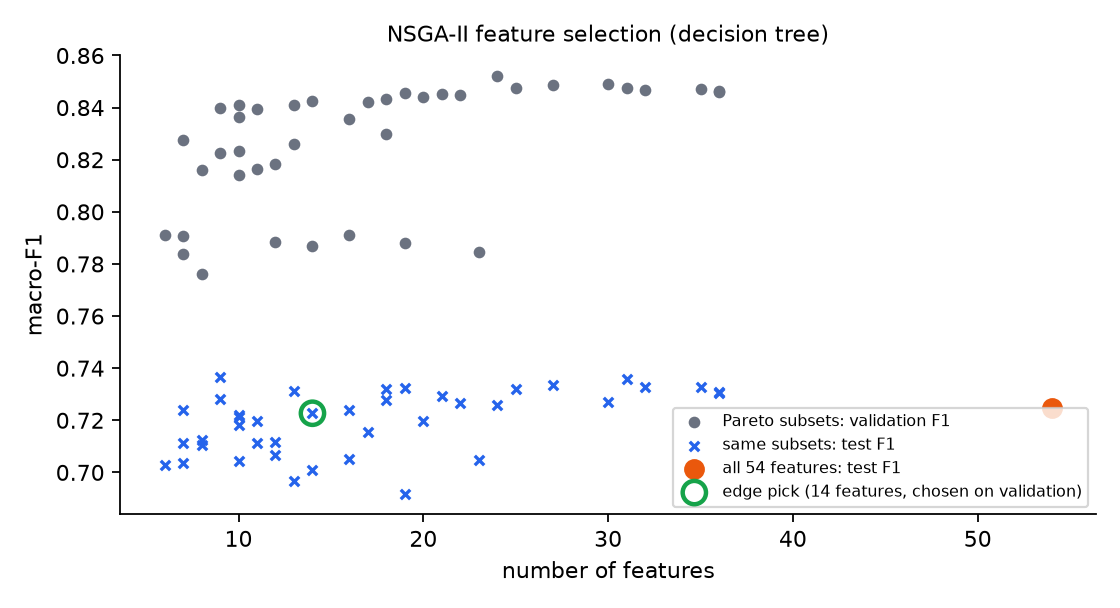
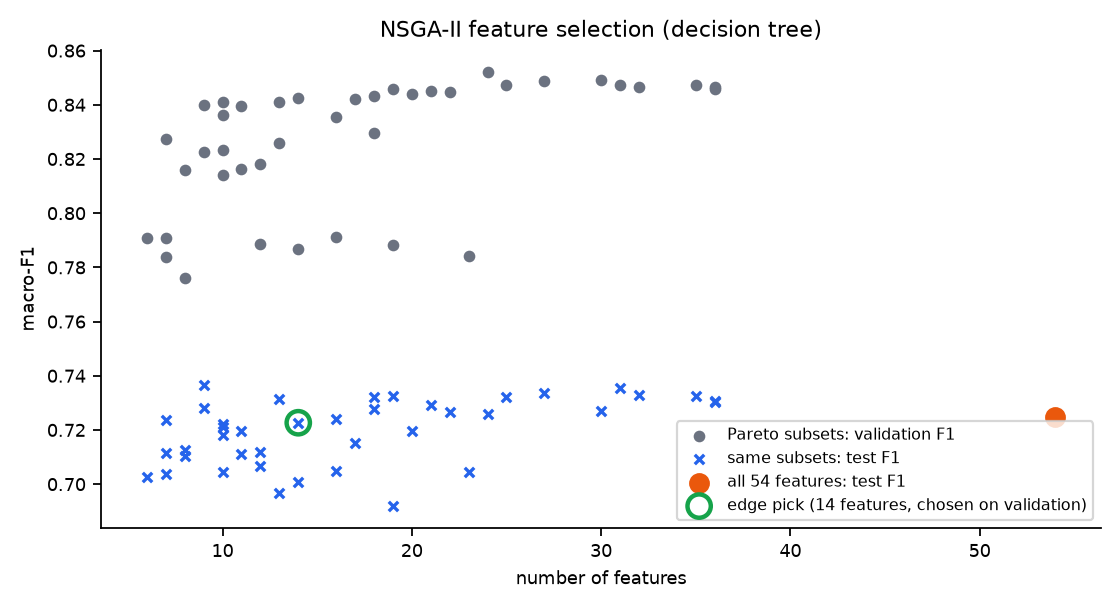
Add per-class host-pair CIs and false-block definition check; regenerate figures for column width

diff --git a/src/analysis/round2_checks.py b/src/analysis/round2_checks.py
@@ -1,0 +1,99 @@
+"""Second-round review checks (no new experiments).
+
+1. Per-class recall with host-pair bootstrap intervals, temporal vs stratified split (edge tree):
+   is the brute-force recall drop robust when whole host pairs are resampled?
+2. Pair-level false blocks for the enforced live runs: a block is false if the blocked pair carries
+   no attack flow in that window (the definition used for the k-curve), next to the trigger-flow
+   definition used by eval_enforce.py.
+
+Usage: python src/analysis/round2_checks.py
+Output: results/round2_checks.md
+"""
+import json
+import pathlib
+import sys
+
+sys.path.insert(0, str(pathlib.Path(__file__).resolve().parents[1]))  # import from src
+
+import numpy as np  # noqa: E402
+import pandas as pd  # noqa: E402
+from sklearn.tree import DecisionTreeClassifier  # noqa: E402
+
+from analysis.cluster_ci import cluster_ids  # noqa: E402
+from config import ATTACKERS_FILE, EDGE_TREE, FOLDER_TO_CLASS, PROCESSED, RESULTS, feature_columns  # noqa: E402
+from eval_live import in_window  # noqa: E402
+from extract_flows import label_flows  # noqa: E402
+from train_baseline import SPLITS  # noqa: E402
+
+B = 1000
+
+
+def recall_ci(y, p, clusters, cls, seed=0):
+    """Recall of one class with a host-pair bootstrap 95% interval; also the number of pairs."""
+    mask = y == cls
+    cl = clusters[mask]
+    hit = (p[mask] == cls).astype(float)
+    ids, inv = np.unique(cl, return_inverse=True)
+    tp = np.bincount(inv, weights=hit)
+    n = np.bincount(inv).astype(float)
+    rng = np.random.default_rng(seed)
+    vals = []
+    for _ in range(B):
+        w = np.bincount(rng.integers(0, len(ids), len(ids)), minlength=len(ids))
+        vals.append((w @ tp) / (w @ n))
+    return hit.mean(), np.percentile(vals, 2.5), np.percentile(vals, 97.5), len(ids)
+
+
+def per_class_section():
+    df = pd.read_parquet(PROCESSED / "flows.parquet")
+    classes = sorted(df.label.unique())
+    rows = []
+    for split, fn in SPLITS.items():
+        train, test = fn(df)
+        feats = feature_columns(train)
+        m = DecisionTreeClassifier(**EDGE_TREE).fit(train[feats].to_numpy(np.float32), train.label)
+        p = m.predict(test[feats].to_numpy(np.float32))
+        y = test.label.to_numpy()
+        cl = cluster_ids(test.source_file.to_numpy(), test.src_ip.to_numpy(), test.dst_ip.to_numpy())
+        for c in classes:
+            r, lo, hi, n = recall_ci(y, p, cl, c)
+            rows.append({"split": split, "class": c, "recall": round(r, 3),
+                         "host-pair 95% CI": f"[{lo:.3f}, {hi:.3f}]", "host pairs": n,
+                         "test flows": int((y == c).sum())})
+    return pd.DataFrame(rows)
+
+
+def false_block_section():
+    attackers = json.loads(ATTACKERS_FILE.read_text())
+    rows = []
+    for tag in ("enforce_k1", "enforce_policy"):
+        run = RESULTS / "live" / tag
+        meta = json.loads((run / "windows.json").read_text())
+        live = pd.read_csv(run / "flows.csv")
+        blocked = trig_false = pair_false = 0
+        for w in meta["windows"]:
+            d = label_flows(in_window(live, w).copy(), FOLDER_TO_CLASS[w["folder"]], attackers.get(w["folder"], {}))
+            d["pair"] = [tuple(sorted(p)) for p in zip(d.src_ip, d.dst_ip)]
+            trig = d[d.blocked_now == 1]
+            att_pairs = set(d[d.label != "Benign"].pair)
+            blocked += len(trig)
+            trig_false += int((trig.label == "Benign").sum())
+            pair_false += sum(1 for p in trig.pair if p not in att_pairs)
+        rows.append({"run": tag, "pairs blocked": blocked,
+                     "false (trigger flow benign)": trig_false,
+                     "false (pair has no attack flow in window)": pair_false})
+    return pd.DataFrame(rows)
+
+
+def main():
+    pc = per_class_section()
+    fb = false_block_section()
+    md = ["# Second-round review checks", "",
+          "## Per-class recall with host-pair bootstrap (edge tree)", "", pc.to_markdown(index=False), "",
+          "## False blocks under two definitions (enforced live runs)", "", fb.to_markdown(index=False)]
+    (RESULTS / "round2_checks.md").write_text("\n".join(md) + "\n")
+    print("\n".join(md))
+
+
+if __name__ == "__main__":
+    main()

diff --git a/src/make_figures.py b/src/make_figures.py
@@ -21,26 +21,35 @@ OUT = ROOT / "docs" / "figures"
 BLUE, ORANGE, GREY, GREEN = "#2563eb", "#ea580c", "#6b7280", "#16a34a"
 
 
+SHORT = {"Benign": "Benign", "BruteForce": "BruteF", "DDoS-SYN": "DDoS", "DoS-HTTP": "DoS-HTTP",
+         "MITM-ARP": "MITM", "Mirai": "Mirai", "Recon": "Recon", "Web": "Web",
+         "Benign_Final": "Benign", "CommandInjection": "CmdInj", "DDoS-SYN_Flood": "DDoS",
+         "DictionaryBruteForce": "BruteF", "DoS-HTTP_Flood": "DoS-HTTP", "MITM-ArpSpoofing": "MITM",
+         "Mirai-udpplain": "Mirai", "Recon-PortScan": "Recon", "SqlInjection": "SQLi", "XSS": "XSS"}
+# Paper figures are placed at \columnwidth (about 3.5 in), so sizes below are true print sizes.
+COL_W = 3.5
+plt.rcParams.update({"font.size": 8, "axes.labelsize": 8, "xtick.labelsize": 8,
+                     "ytick.labelsize": 8, "legend.fontsize": 8})
+
+
 def split_recall():
     t = json.loads((RESULTS / "baseline_temporal" / "metrics.json").read_text())["models"]["decision_tree"]
     s = json.loads((RESULTS / "baseline_stratified" / "metrics.json").read_text())["models"]["decision_tree"]
     classes = list(t["per_class"])
     x = np.arange(len(classes))
-    fig, ax = plt.subplots(figsize=(9, 4.2))
+    fig, ax = plt.subplots(figsize=(COL_W, 2.3))
     ax.bar(x - 0.2, [s["per_class"][c]["recall"] for c in classes], 0.4, color=GREY,
-           label=f"stratified random split (macro-F1 {s['macro_f1']:.3f})")
+           label=f"random (macro-F1 {s['macro_f1']:.3f})")
     ax.bar(x + 0.2, [t["per_class"][c]["recall"] for c in classes], 0.4, color=BLUE,
-           label=f"temporal split (macro-F1 {t['macro_f1']:.3f})")
-    for i, c in enumerate(classes):
-        ax.text(i + 0.2, 1.02, f"n={int(t['per_class'][c]['support']):,}", ha="center", fontsize=7, color=BLUE)
-    ax.set_xticks(x, classes, fontsize=9)
-    ax.set_ylim(0, 1.12)
+           label=f"temporal (macro-F1 {t['macro_f1']:.3f})")
+    ax.set_xticks(x, [SHORT.get(c, c) for c in classes], rotation=35, ha="right", rotation_mode="anchor")
+    ax.set_ylim(0, 1.0)
     ax.set_ylabel("recall")
-    ax.set_title("Decision tree recall per class: a random split hides the brute-force shift", fontsize=10)
-    ax.legend(fontsize=8, loc="upper center", bbox_to_anchor=(0.5, -0.1), ncol=2, frameon=False)
+    ax.legend(loc="lower center", bbox_to_anchor=(0.5, 1.0), ncol=2, frameon=False,
+              handlelength=1.2, columnspacing=1.0, borderaxespad=0.2)
     ax.spines[["top", "right"]].set_visible(False)
-    fig.tight_layout()
-    fig.savefig(OUT / "split_recall.png", dpi=160)
+    fig.tight_layout(pad=0.3)
+    fig.savefig(OUT / "split_recall.png", dpi=300)
 
 
 def nsga_pareto():
@@ -74,20 +83,19 @@ def live_delay():
                          for w in json.loads(f.read_text())["windows"]}
     windows = list(data.get("run1", {}))
     x = np.arange(len(windows))
-    fig, ax = plt.subplots(figsize=(10, 3.8))
-    width = 0.27
+    fig, ax = plt.subplots(figsize=(COL_W, 2.4))
+    width = 0.28
     for i, (tag, label, color) in enumerate(runs):
         vals = [data.get(tag, {}).get(w) for w in windows]
         ax.bar(x + (i - 1) * width, [v if v is not None else 0 for v in vals], width, color=color, label=label)
     ax.axhline(15, color="black", lw=0.8, ls="--")
-    ax.text(len(windows) - 0.5, 16, "idle timeout 15 s", fontsize=8, ha="right")
-    ax.set_xticks(x, [w.replace("_", " ").replace("-", "-\n", 1) for w in windows], fontsize=7)
-    ax.set_ylabel("median verdict after flow end (s)")
-    ax.set_title("Live gateway: verdict delay per window and CPU budget (1/2 core: 3 heaviest windows only)", fontsize=10)
-    ax.legend(fontsize=8)
+    ax.set_xticks(x, [SHORT.get(w, w) for w in windows], rotation=45, ha="right", rotation_mode="anchor")
+    ax.set_xlim(-0.6, len(windows) - 0.4)
+    ax.set_ylabel("median delay after\nflow end (s)")
+    ax.legend(loc="upper right", frameon=False, handlelength=1.2)
     ax.spines[["top", "right"]].set_visible(False)
-    fig.tight_layout()
-    fig.savefig(OUT / "live_delay.png", dpi=160)
+    fig.tight_layout(pad=0.3)
+    fig.savefig(OUT / "live_delay.png", dpi=300)
 
 
 if __name__ == "__main__":

diff --git a/results/round2_checks.md b/results/round2_checks.md
@@ -1,0 +1,29 @@
+# Second-round review checks
+
+## Per-class recall with host-pair bootstrap (edge tree)
+
+| split      | class      |   recall | host-pair 95% CI   |   host pairs |   test flows |
+|:-----------|:-----------|---------:|:-------------------|-------------:|-------------:|
+| temporal   | Benign     |    0.962 | [0.901, 0.990]     |         3424 |        52993 |
+| temporal   | BruteForce |    0.053 | [0.000, 0.842]     |            3 |          605 |
+| temporal   | DDoS-SYN   |    1     | [1.000, 1.000]     |            6 |       153402 |
+| temporal   | DoS-HTTP   |    0.985 | [0.985, 0.985]     |            1 |        10110 |
+| temporal   | MITM-ARP   |    0.16  | [0.000, 0.375]     |           13 |           25 |
+| temporal   | Mirai      |    0.9   | [0.571, 1.000]     |            6 |           10 |
+| temporal   | Recon      |    1     | [1.000, 1.000]     |           18 |        39819 |
+| temporal   | Web        |    0.917 | [0.804, 0.941]     |            8 |          192 |
+| stratified | Benign     |    0.989 | [0.984, 0.992]     |         3750 |        48323 |
+| stratified | BruteForce |    1     | [1.000, 1.000]     |            3 |          324 |
+| stratified | DDoS-SYN   |    1     | [1.000, 1.000]     |            6 |       153458 |
+| stratified | DoS-HTTP   |    0.991 | [0.991, 0.991]     |            2 |        11845 |
+| stratified | MITM-ARP   |    0.267 | [0.176, 0.390]     |           43 |           90 |
+| stratified | Mirai      |    1     | [1.000, 1.000]     |            7 |           12 |
+| stratified | Recon      |    1     | [1.000, 1.000]     |           57 |        42943 |
+| stratified | Web        |    0.886 | [0.824, 0.919]     |           10 |          167 |
+
+## False blocks under two definitions (enforced live runs)
+
+| run            |   pairs blocked |   false (trigger flow benign) |   false (pair has no attack flow in window) |
+|:---------------|----------------:|------------------------------:|--------------------------------------------:|
+| enforce_k1     |              79 |                            60 |                                          60 |
+| enforce_policy |               9 |                             0 |                                           0 |
